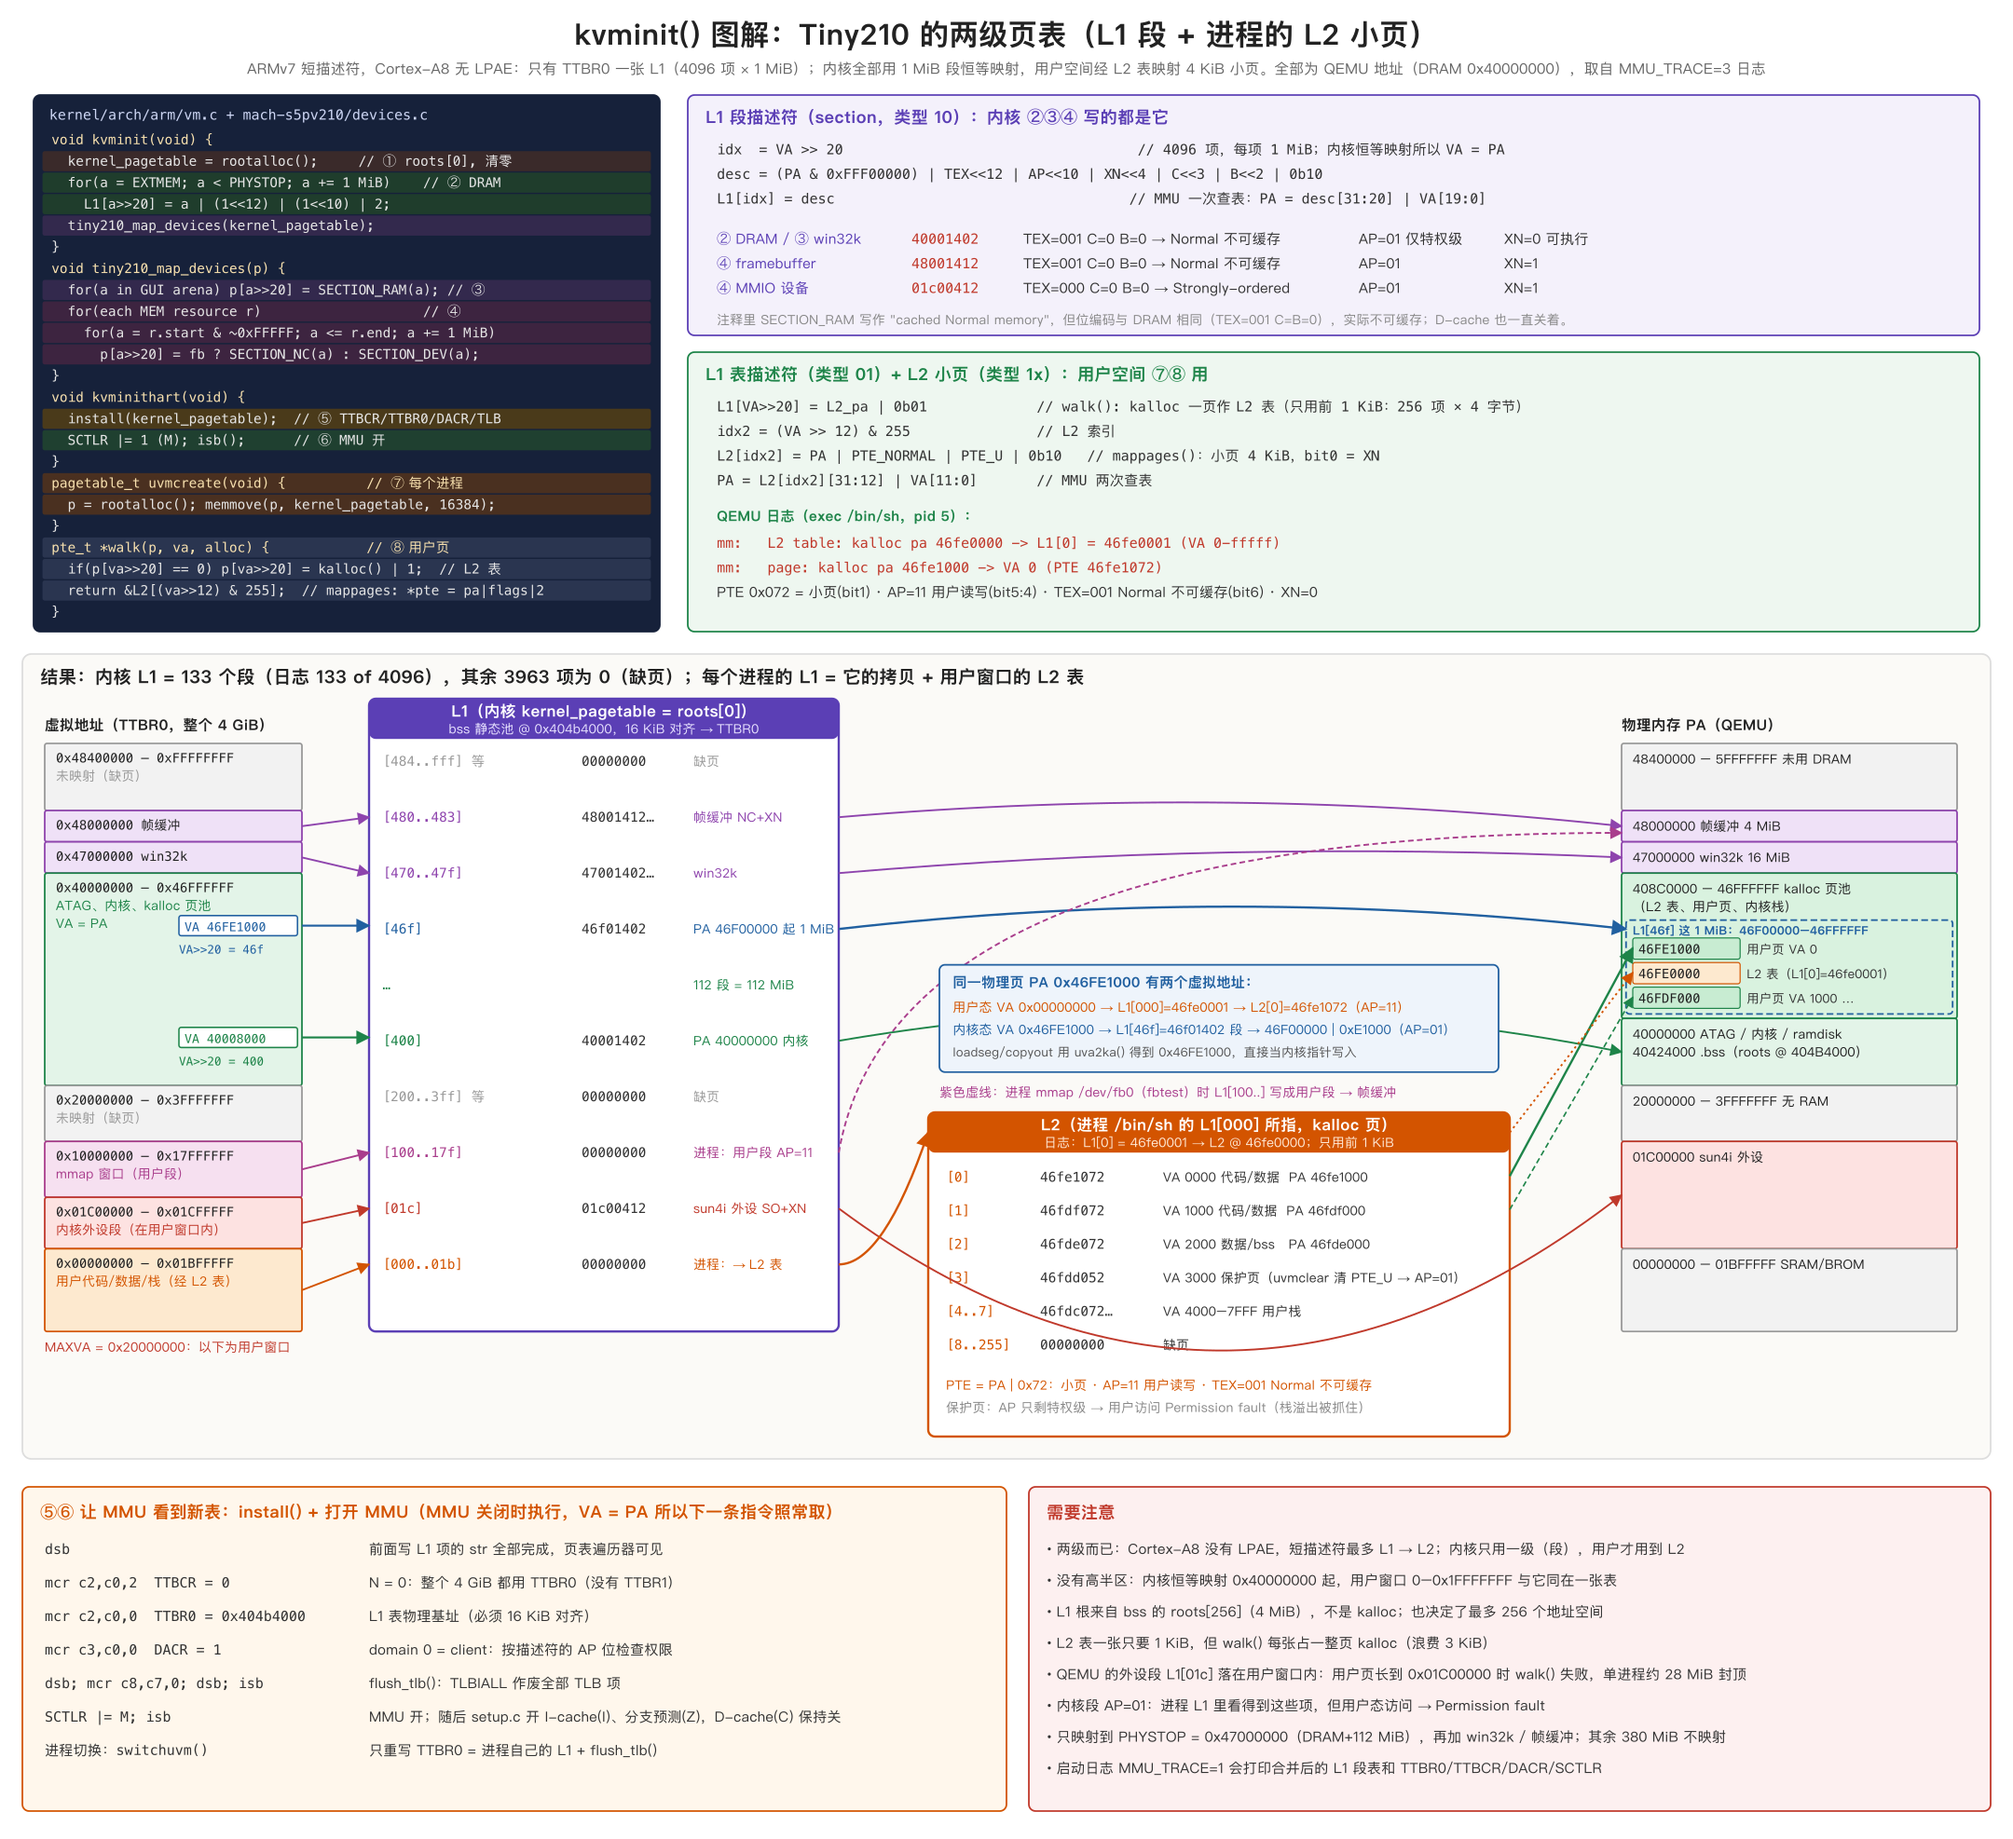
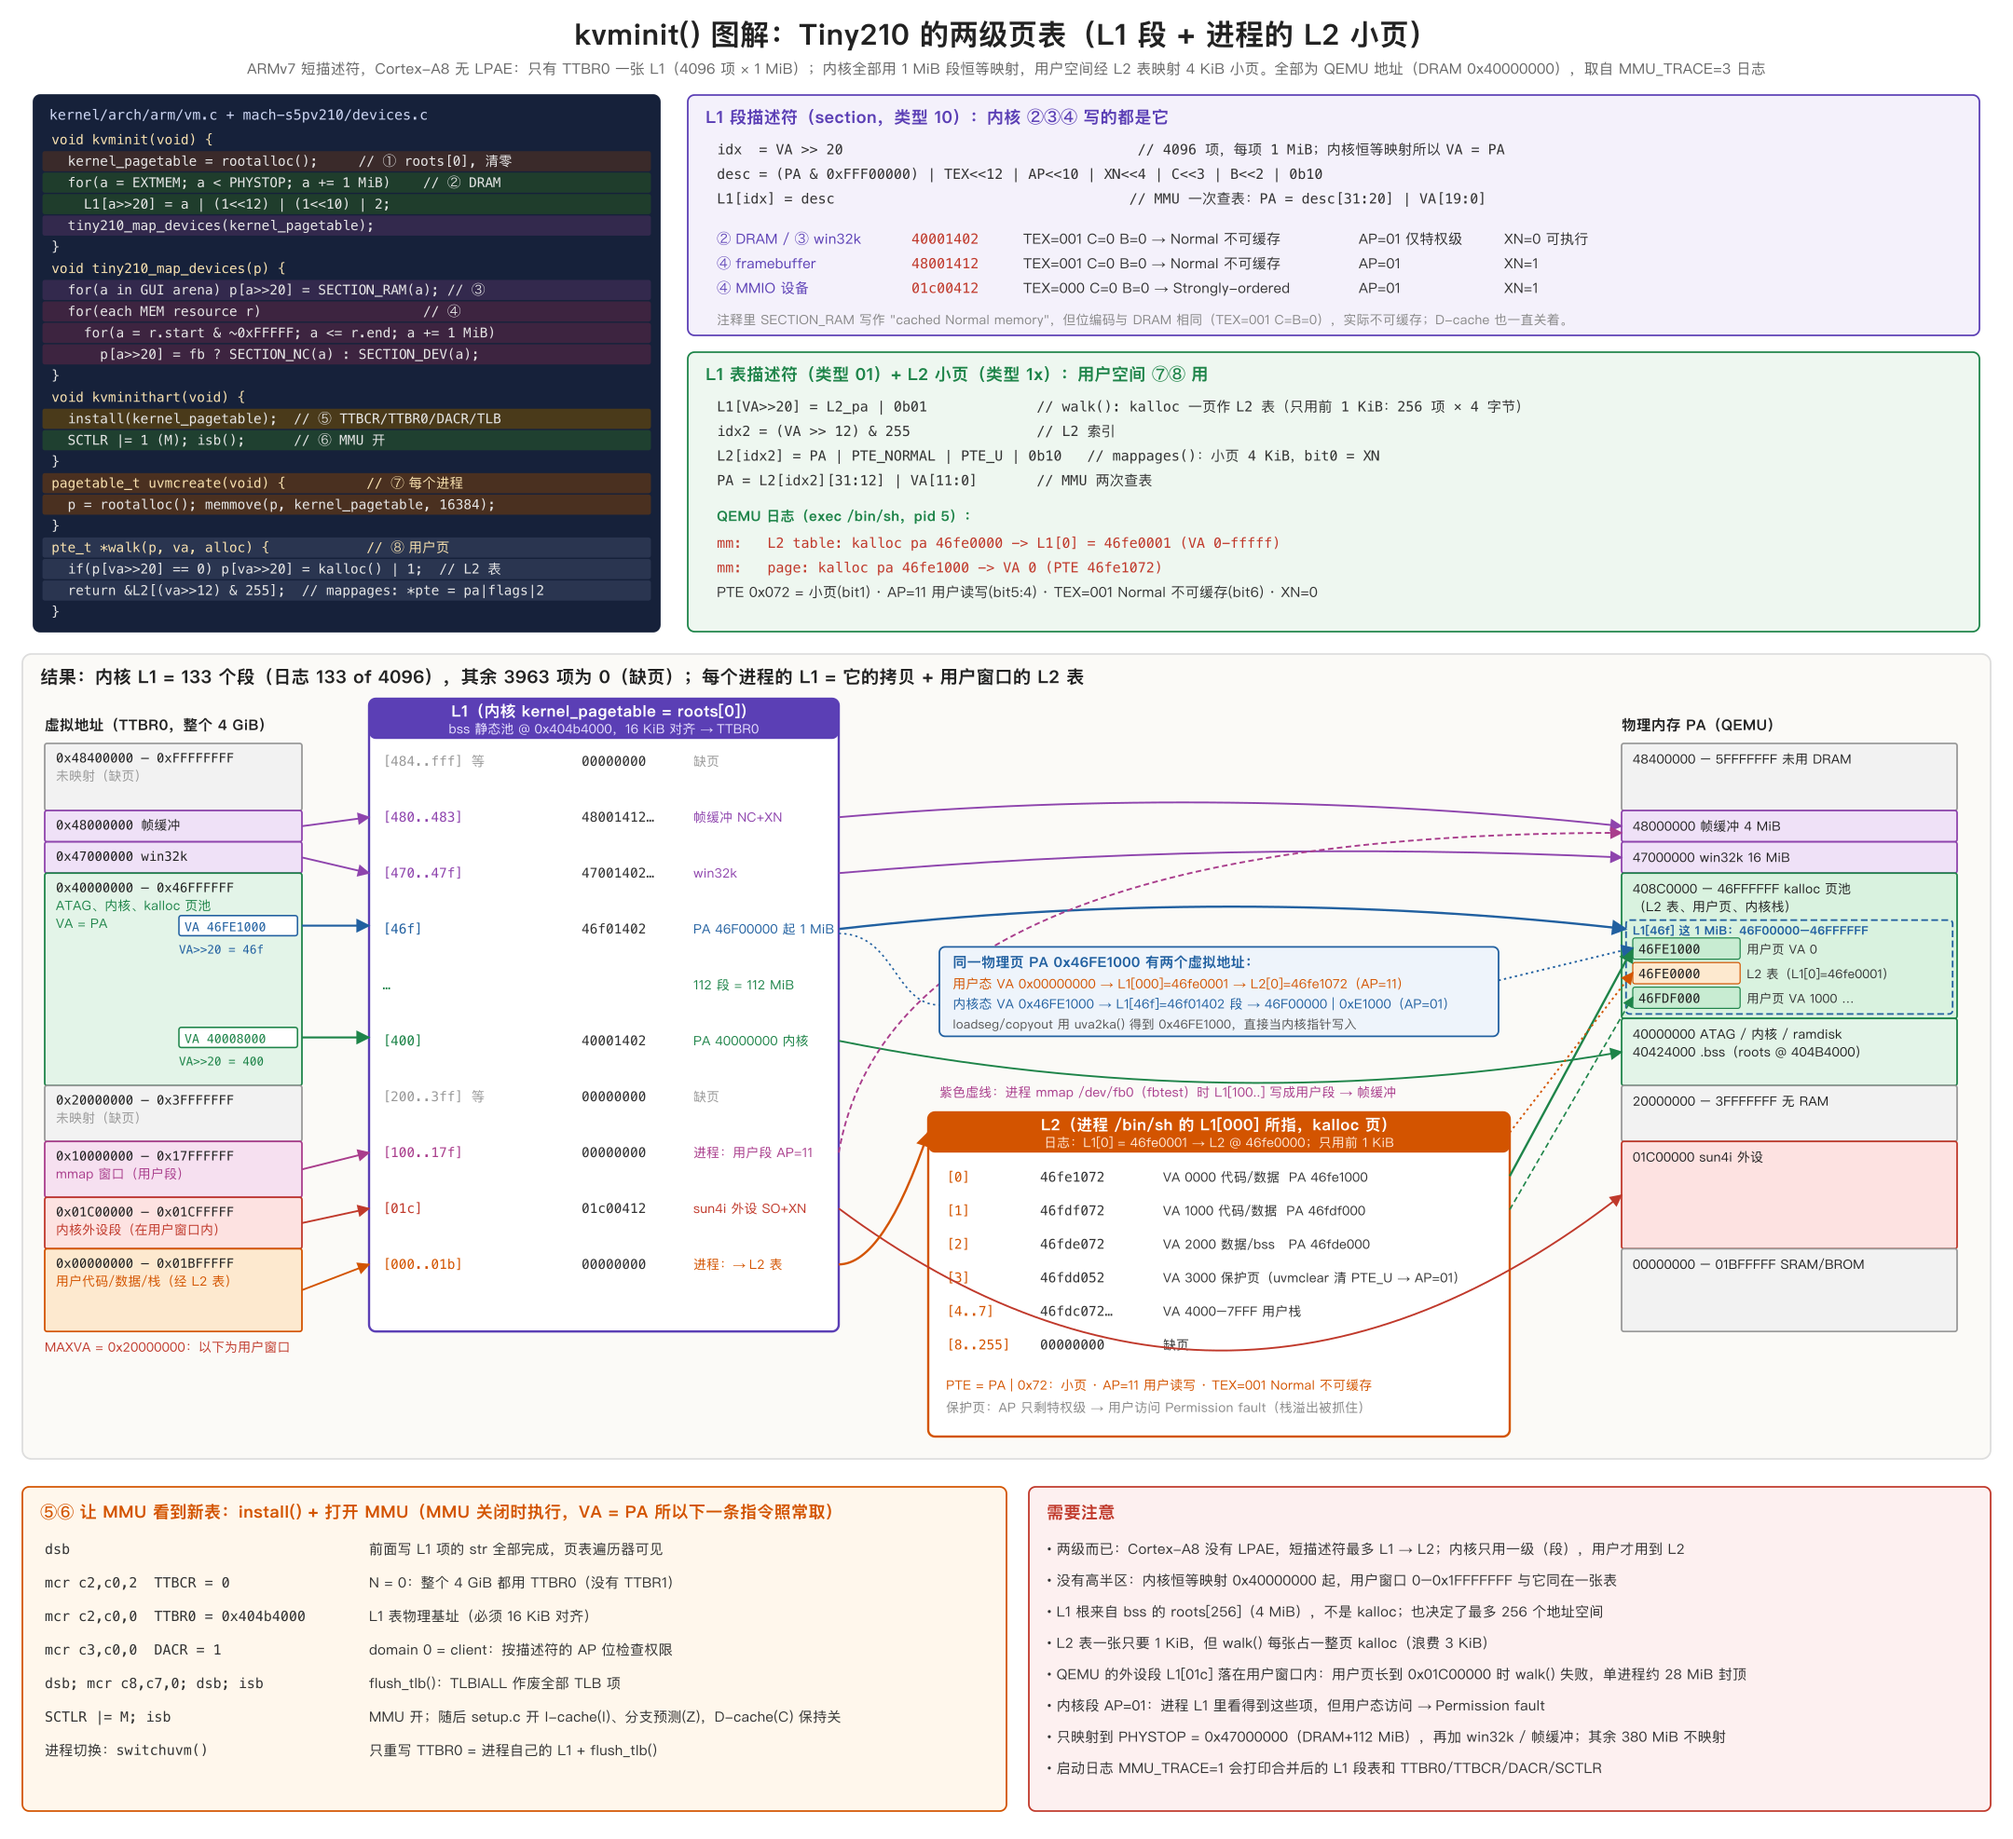
mmu-page-tables diagram: connect the double-mapping callout to L1[46f] and page 46FE1000
The callout now sits right below the L1[46f] row with a dotted link from
that entry and a dotted arrow to the 46FE1000 page box; the L1[400] arrow
is routed below it instead of passing through.

Changed region(s): [[0.4653, 0.4944, 0.7444, 0.5871], [0.7134, 0.4944, 0.7444, 0.5253]]

diff --git a/tools/mmu_page_tables_svg.py b/tools/mmu_page_tables_svg.py
@@ -276,7 +276,7 @@ arrow(vx + vw, vmid("0x00000000 – 0x01BFFFFF"), lx, l1pos["[000..01b]"], "#d35
 arrow(lx + lw, l1pos["[480..483]"], px, pmid("48000000"), "#8e44ad", curve=(1100, l1pos["[480..483]"] - 30))
 arrow(lx + lw, l1pos["[470..47f]"], px, pmid("47000000"), "#8e44ad", curve=(1100, l1pos["[470..47f]"] - 30))
 arrow(lx + lw, l1pos["[46f]"], px + 4, sec_y0 + 8, "#2160a0", sw=2, curve=(1100, l1pos["[46f]"] - 40))
-arrow(lx + lw, l1pos["[400]"], px, pmid("40000000"), "#1e8449", curve=(1100, l1pos["[400]"] - 60))
+arrow(lx + lw, l1pos["[400]"], px, pmid("40000000"), "#1e8449", curve=(1100, l1pos["[400]"] + 70))
 arrow(lx + lw, l1pos["[01c]"], px, pmid("01C00000"), "#c0392b", curve=(1100, l1pos["[01c]"] + 260))
 # L1[000] -> L2 table, L2 entries -> exact pages, L2 itself lives at 46FE0000
 arrow(lx + lw, l1pos["[000..01b]"], qx, qy + 18, "#d35400", sw=2, curve=(790, l1pos["[000..01b]"]))
@@ -288,12 +288,16 @@ arrow(lx + lw, l1pos["[100..17f]"], px, pmid("48000000") + 6, "#a93d8c", dash="5
       curve=(800, pmid("48000000") + 6))
 text(qx + 10, qy - 14, "紫色虚线：进程 mmap /dev/fb0（fbtest）时 L1[100..] 写成用户段 → 帧缓冲", 11.5, "#a93d8c")
 # One physical page, two virtual addresses: user VA 0 via L2, kernel VA = PA via the L1 section.
-cx0, cy0 = 840, qy - 132
-rect(cx0, cy0, 500, 96, "#eef4fb", "#2160a0", rx=5)
-text(cx0 + 12, cy0 + 20, "同一物理页 PA 0x46FE1000 有两个虚拟地址：", 12.5, "#2160a0", weight="600")
-text(cx0 + 12, cy0 + 42, "用户态 VA 0x00000000 → L1[000]=46fe0001 → L2[0]=46fe1072（AP=11）", 11.5, "#d35400")
-text(cx0 + 12, cy0 + 62, "内核态 VA 0x46FE1000 → L1[46f]=46f01402 段 → 46F00000 | 0xE1000（AP=01）", 11.5, "#2160a0")
-text(cx0 + 12, cy0 + 82, "loadseg/copyout 用 uva2ka() 得到 0x46FE1000，直接当内核指针写入", 11, "#555")
+cx0, cy0, cw0, ch0 = 840, l1pos["[46f]"] + 16, 500, 80
+rect(cx0, cy0, cw0, ch0, "#eef4fb", "#2160a0", rx=5)
+text(cx0 + 12, cy0 + 18, "同一物理页 PA 0x46FE1000 有两个虚拟地址：", 12.5, "#2160a0", weight="600")
+text(cx0 + 12, cy0 + 37, "用户态 VA 0x00000000 → L1[000]=46fe0001 → L2[0]=46fe1072（AP=11）", 11.5, "#d35400")
+text(cx0 + 12, cy0 + 55, "内核态 VA 0x46FE1000 → L1[46f]=46f01402 段 → 46F00000 | 0xE1000（AP=01）", 11.5, "#2160a0")
+text(cx0 + 12, cy0 + 73, "loadseg/copyout 用 uva2ka() 得到 0x46FE1000，直接当内核指针写入", 11, "#555")
+# left: from the kernel entry L1[46f] (VA 0x46FE1000); right: to the page 46FE1000.
+o(f'<path d="M{lx + lw},{l1pos["[46f]"] + 4} C{cx0 - 40},{l1pos["[46f]"] + 4} {cx0 - 40},{cy0 + 52} {cx0},{cy0 + 52}" '
+  f'fill="none" stroke="#2160a0" stroke-width="1.4" stroke-dasharray="2 3"/>')
+arrow(cx0 + cw0, cy0 + 30, px + 10, qpos["46FE1000"], "#2160a0", sw=1.6, dash="2 3")
 
 # ------------------------------------------------------------ bottom boxes
 by, bh = 1330, 290
